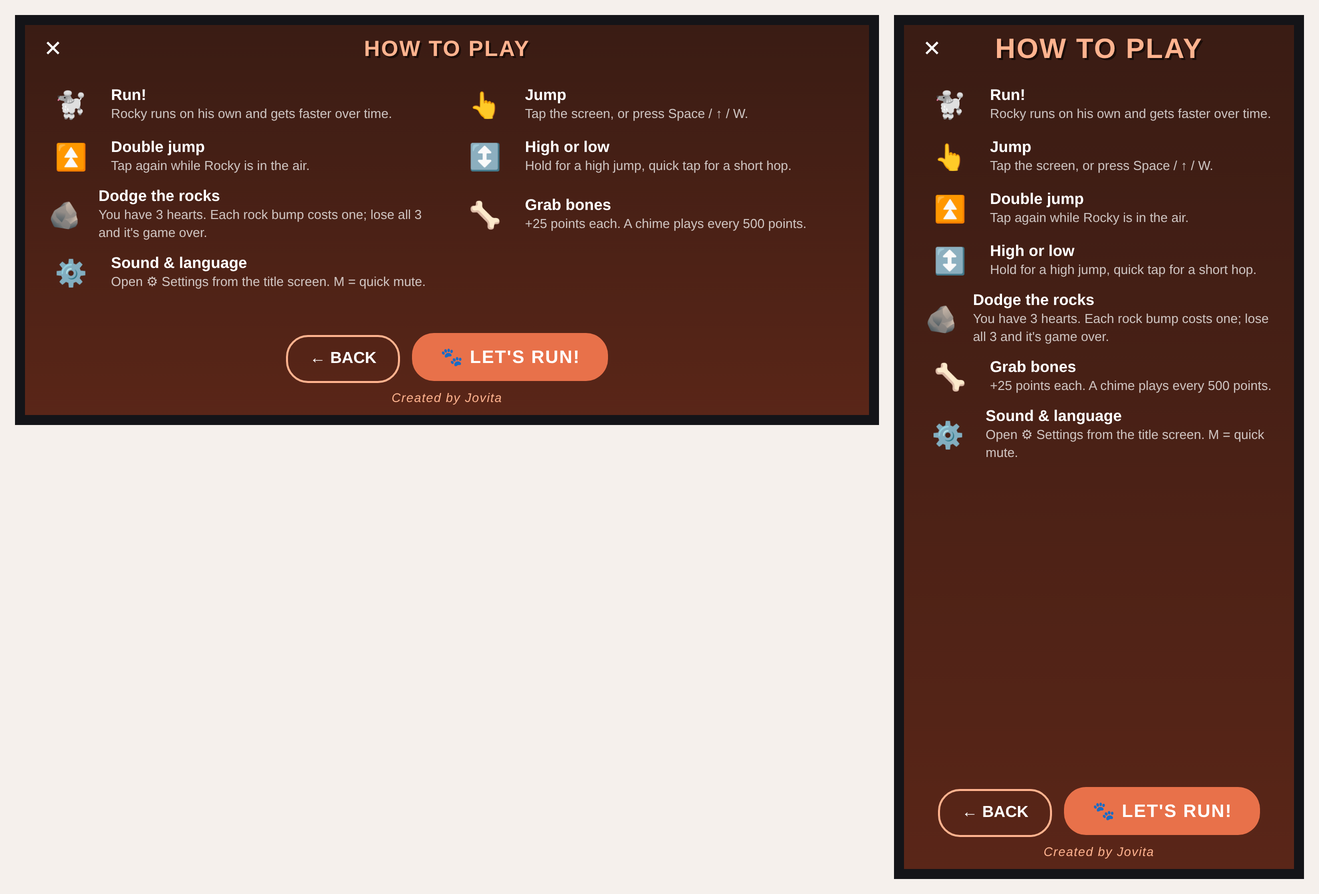
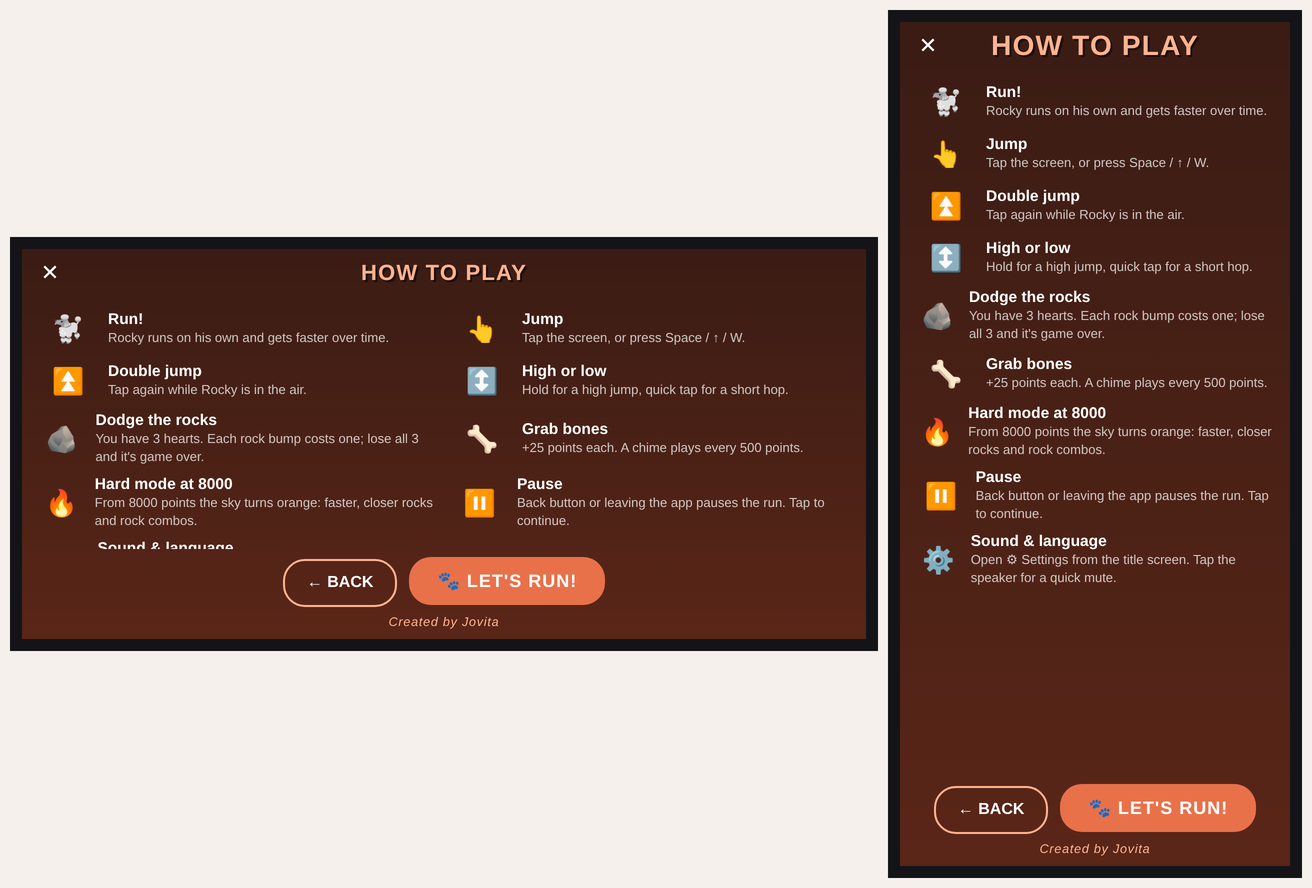
README: new Rocky look, guide, hard mode, pause, audio, Play Store docs

diff --git a/README.md b/README.md
@@ -1,25 +1,26 @@
+![Rocky Run](docs/store/feature_graphic_1024x500.png)
+
 # Rocky Run 🐩
 
-An endless runner starring **Rocky**, a red toy poodle. Jump over rocks, grab bones, keep your 3 hearts, beat your best score.
+An endless runner starring **Rocky**, a fluffy caramel toy poodle. Jump over rocks, grab bones, keep your 3 hearts and beat your best score.
 Built with Flutter for **Android**, **Web** and **Windows**. Created by Jovita.
 
 🎮 **Play online:** https://rockyrunwafel.netlify.app
 
-![Gameplay](docs/images/gameplay.png)
+![Gameplay and game over](docs/images/gameplay.png)
 
 ## Features
-- Hand-drawn vector art (no image assets for gameplay): Rocky, rocks, bones, parallax hills
-- Tap / Space to jump, double jump, hold for higher jumps
-- 3 hearts with short invincibility after a hit, bones worth +25, milestone chime every 500 points
-- Original chiptune music and sound effects (generated by `tools/gen_audio.py`)
-- How to Play page before every run, with a ✕ / BACK exit:
-  - PC / wide screens: one centred panel, animated Rocky + buttons on the left, rules in two columns on the right, paw-print background
-  - Phones: full-height layout with the rules in the middle and buttons at the bottom
-- Settings page (music / sound volume, English / Bahasa Indonesia, best score, about)
-- Works in landscape and portrait; phone-friendly wording and Android Back button support
-- Custom app icon for Android (adaptive), Windows and Web
+- **Rocky**: curly caramel toy poodle drawn in code (or your own painted frames, see [Custom Rocky art](#custom-rocky-art)), with run, jump, idle-blink and crash animations
+- **Controls**: tap / Space to jump, tap again for a double jump, hold for a higher jump
+- **3 hearts** with short invincibility after a hit; bones worth **+25**; a chime every **500** points
+- **Hard mode at 8000 points**: sunset sky, higher speed, tighter rock gaps and back-to-back rock combos
+- **Pause**: the Back button (or Esc), switching apps or hiding the browser tab pauses the run; tap to continue
+- **Modern original audio**: plucked guitar, marimba, pad and drums loop plus polished sound effects, all generated by `tools/gen_audio.py` (no samples)
+- **How to Play** guide before every run, **Settings** page (music / sound volume, English / Bahasa Indonesia, best score, about)
+- Landscape and portrait, phone-friendly wording, iPhone Safari optimisations (no zoom / scroll, instant Web Audio sound effects)
+- Custom app icon for Android (adaptive), Windows and Web; Play Store ready (package `com.jovita.rockyrun`, target API 36)
 
-### How to Play
+## How to Play guide
 
 **PC / web (wide screen)**
 
@@ -29,7 +30,28 @@ Built with Flutter for **Android**, **Web** and **Windows**. Created by Jovita.
 
 ![How to Play on a phone](docs/images/how_to_play.png)
 
-### Settings
+| Rule | What it means |
+| --- | --- |
+| Run! | Rocky runs on his own and gets faster over time |
+| Jump | Tap anywhere (PC: Space / ↑ / W) |
+| Double jump | Tap again while Rocky is in the air |
+| High or low | Hold for a high jump, quick tap for a short hop |
+| Dodge the rocks | 3 hearts; each rock bump costs one, lose all 3 and it's game over |
+| Grab bones | +25 points each; a chime every 500 points |
+| Hard mode at 8000 | Sky turns orange: faster, closer rocks and rock combos |
+| Pause | Back button or leaving the app pauses the run; tap to continue |
+| Sound & language | ⚙ Settings on the title screen; speaker button for a quick mute |
+
+## Controls
+| Action | Phone | Keyboard |
+| --- | --- | --- |
+| Jump / start | Tap | Space, ↑, W |
+| Double jump | Tap again in the air | Press again in the air |
+| Pause / back | Phone Back button | Esc |
+| How to Play / Settings | ? / ⚙ buttons | H / S |
+| Mute | Speaker button | M |
+
+## Settings
 
 ![Settings](docs/images/settings.png)
 
@@ -41,31 +63,44 @@ flutter run            # pick Chrome, Windows or an Android device
 
 ## Build a release
 ```bash
-flutter build apk --release   # Android APK  -> build/app/outputs/flutter-apk/app-release.apk
-flutter build web --release   # Website      -> build/web
+flutter build appbundle --release   # Google Play -> build/app/outputs/bundle/release/app-release.aab
+flutter build apk --release         # Android APK -> build/app/outputs/flutter-apk/app-release.apk
+flutter build web --release         # Website     -> build/web (deploy to Netlify)
 ```
-Full step-by-step instructions (signing key, Netlify, GitHub Pages, troubleshooting): [docs/Rocky_Run_Release_Guide.pdf](docs/Rocky_Run_Release_Guide.pdf)
+
+## Guides
+| Guide | What's inside |
+| --- | --- |
+| [Release Guide (PDF)](docs/Rocky_Run_Release_Guide.pdf) | APK + signing key, website on Netlify / GitHub Pages, release checklist, troubleshooting |
+| [Play Store listing](docs/play_store_listing.md) | Store texts (EN / ID), graphics, App content answers, release steps |
+| [Store graphics](docs/store/) | 512 × 512 icon and 1024 × 500 feature graphic |
+| [Privacy policy](https://rockyrunwafel.netlify.app/privacy.html) | No data collected; best score and settings stay on the device |
+
+Signing key for Google Play (one time): `powershell -ExecutionPolicy Bypass -File tools\create_upload_key.ps1`
+
+## Custom Rocky art
+Put painted frames (Rocky facing right, plain background) named `run_1` … `run_4`, `jump`, `idle_1`, `idle_2`, `hurt` in a folder and run:
+```bash
+python tools/prepare_sprites.py <folder>
+```
+They are cleaned up and saved to `assets/sprites/`; the game uses them automatically instead of the drawn Rocky.
 
 ## Project structure
 ```
-lib/main.dart                     game screen: world, score bar, title & game-over cards
-lib/game.dart                     game state, physics, spawning, collisions, hearts
-lib/painters.dart                 sky / hills / ground / rocks / bones + the Rocky sprite
+lib/main.dart                     game screen: world, score bar, title / pause / game-over cards, back button
+lib/game.dart                     game state, physics, spawning, collisions, hearts, hard mode
+lib/painters.dart                 sky / hills / ground / rocks / bones + the drawn Rocky
+lib/rocky_sprites.dart            optional painted Rocky frames (assets/sprites/)
 lib/game_audio.dart               sound effects + looping music
+lib/web_sfx*.dart                 Web Audio sound effects + tab-visibility hook (web only)
 lib/strings.dart                  English / Indonesian text, keyboard vs touch wording
-lib/pages/how_to_play_page.dart   How to Play page (wide-screen panel + phone layout)
+lib/pages/how_to_play_page.dart   How to Play guide (wide-screen panel + phone layout)
 lib/pages/settings_page.dart      Settings page
 lib/ui/                           shared colours, styles and small art icons
 assets/audio/                     music and sound effects (.wav)
 assets/icon/                      app icon source images (1024 px)
 tools/gen_audio.py                regenerates all audio (needs numpy)
+tools/prepare_sprites.py          prepares painted Rocky frames
+tools/create_upload_key.ps1       creates the Google Play upload key
+web/privacy.html                  privacy policy page
 ```
-
-## Controls
-| Action | Phone | Keyboard |
-| --- | --- | --- |
-| Jump / start | Tap | Space, ↑, W |
-| Double jump | Tap again in the air | Press again in the air |
-| How to Play / Settings | ? / ⚙ buttons | H / S |
-| Mute | Speaker button | M |
-| Back to title | Phone Back button | Esc |
